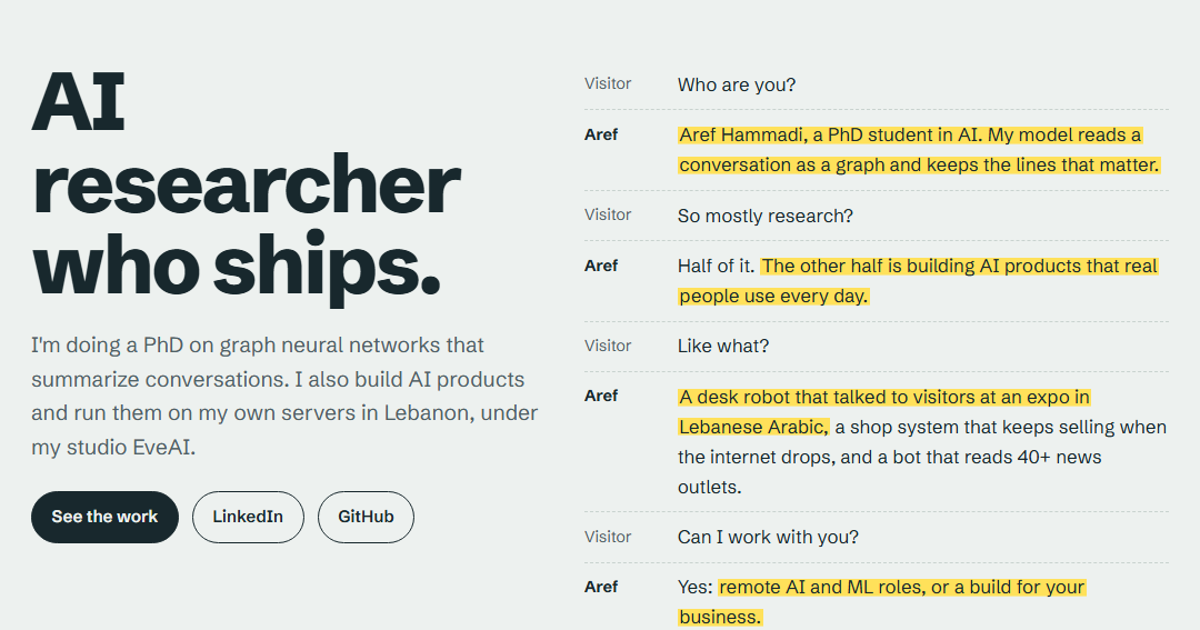
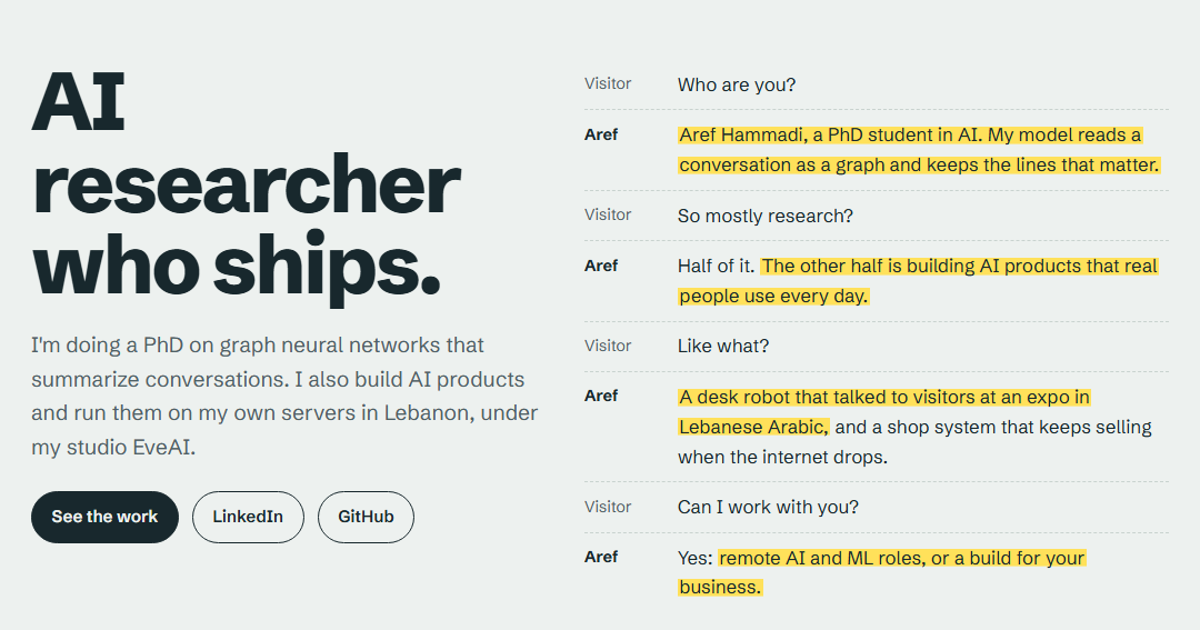
Remove IEEE Access, CS224W link, news bot; no links to Breastfeeding Chat

diff --git a/index.html b/index.html
@@ -4,7 +4,7 @@
 <meta charset="utf-8">
 <meta name="viewport" content="width=device-width, initial-scale=1">
 <title>Aref Hammadi</title>
-<meta name="description" content="AI researcher who ships. PhD work on graph neural networks for dialogue summarization, and AI products built and run in Lebanon: a talking robot, an offline-first shop system, Arabic news and writing bots.">
+<meta name="description" content="AI researcher who ships. PhD work on graph neural networks for dialogue summarization, and AI products built and run in Lebanon: a talking robot, an offline-first shop system, Arabic writing bots.">
 <meta property="og:title" content="Aref Hammadi">
 <meta property="og:description" content="AI researcher who ships: graph neural networks for summarization, and AI products running in Lebanon.">
 <meta property="og:image" content="https://aref.eveai.cloud/img/og.png">
@@ -166,7 +166,7 @@ footer{padding:2rem 0 3rem;color:var(--muted);font-size:.9rem;border-top:1px sol
           <li><span class="who">Visitor</span><span class="say">So mostly research?</span></li>
           <li class="aref"><span class="who">Aref</span><span class="say">Half of it. <mark>The other half is building AI products that real people use every day.</mark></span></li>
           <li><span class="who">Visitor</span><span class="say">Like what?</span></li>
-          <li class="aref"><span class="who">Aref</span><span class="say"><mark>A desk robot that talked to visitors at an expo in Lebanese Arabic,</mark> a shop system that keeps selling when the internet drops, and a bot that reads 40+ news outlets.</span></li>
+          <li class="aref"><span class="who">Aref</span><span class="say"><mark>A desk robot that talked to visitors at an expo in Lebanese Arabic,</mark> and a shop system that keeps selling when the internet drops.</span></li>
           <li><span class="who">Visitor</span><span class="say">Can I work with you?</span></li>
           <li class="aref"><span class="who">Aref</span><span class="say">Yes: <mark>remote AI and ML roles, or a build for your business.</mark></span></li>
         </ol>
@@ -223,7 +223,7 @@ footer{padding:2rem 0 3rem;color:var(--muted);font-size:.9rem;border-top:1px sol
       <article class="project" id="research">
         <div class="ph">
           <h3>Dialogue summarization with graph neural networks</h3>
-          <span class="status research">PhD research, paper in preparation for IEEE Access</span>
+          <span class="status research">PhD research, paper in preparation</span>
         </div>
         <div class="pb">
           <p class="what">Customer-support threads on Twitter are long and tangled. My model reads each one as a graph at several levels (tweets, segments, speakers) that changes as the conversation goes, and picks the utterances a human summary would keep.</p>
@@ -233,31 +233,14 @@ footer{padding:2rem 0 3rem;color:var(--muted);font-size:.9rem;border-top:1px sol
             <li>Teacher-student training: the teacher labels about 100k unlabeled TWCS dialogues, and the student learns from those plus the 880 human-labeled ones.</li>
           </ul>
           <p class="stack">PyTorch, Hugging Face Transformers, sentence-transformers, ROUGE</p>
-          <div class="plinks"><span class="stack">Code will be released with the paper.</span><a href="https://github.com/ArefHam/CS224W-Colab">Graph ML coursework (Stanford CS224W)</a></div>
-        </div>
-      </article>
-
-      <article class="project">
-        <div class="ph">
-          <h3>Lebanon News Bot</h3>
-          <span class="status live">Running daily on Telegram</span>
-        </div>
-        <div class="pb">
-          <p class="what">Reads more than 40 Lebanese outlets (TV, newspapers, the national agency, the army, party sites) plus X accounts, and sends short Arabic briefs with analysis twice a day. Readers can also ask it questions about the archive.</p>
-          <ul>
-            <li>AI only where it pays: headlines and breaking alerts cost nothing, a full brief costs about $0.08, and a brief under 30 minutes old is reused.</li>
-            <li>Every model call's cost is logged. Admins get alerts at 50, 80 and 100% of the monthly budget and can raise it with one button.</li>
-            <li>Every model can be swapped by configuration, so a deprecated model is a one-line change.</li>
-            <li>The full archive is written to an Obsidian vault automatically (440+ commits so far).</li>
-          </ul>
-          <p class="stack">Python, Telegram Bot API, OpenAI and Gemini APIs, Docker</p>
+          <p class="stack">Code will be released with the paper.</p>
         </div>
       </article>
 
       <article class="project">
         <div class="ph">
           <h3>Breastfeeding Chat</h3>
-          <span class="status live">Live, open source</span>
+          <span class="status live">Live</span>
         </div>
         <div class="pb">
           <p class="what">A Persian and English assistant that answers mothers' breastfeeding questions from a curated knowledge base.</p>
@@ -267,7 +250,6 @@ footer{padding:2rem 0 3rem;color:var(--muted);font-size:.9rem;border-top:1px sol
             <li>The build fails if a secret ever reaches the bundle. End-to-end tests cover Persian right-to-left and English at five screen widths.</li>
           </ul>
           <p class="stack">n8n, React, TypeScript, Supabase, Playwright</p>
-          <div class="plinks"><a href="https://chat.eveai.cloud">chat.eveai.cloud</a><a href="https://github.com/ArefHam/breastfeedingchat">Source on GitHub</a></div>
         </div>
       </article>
 
